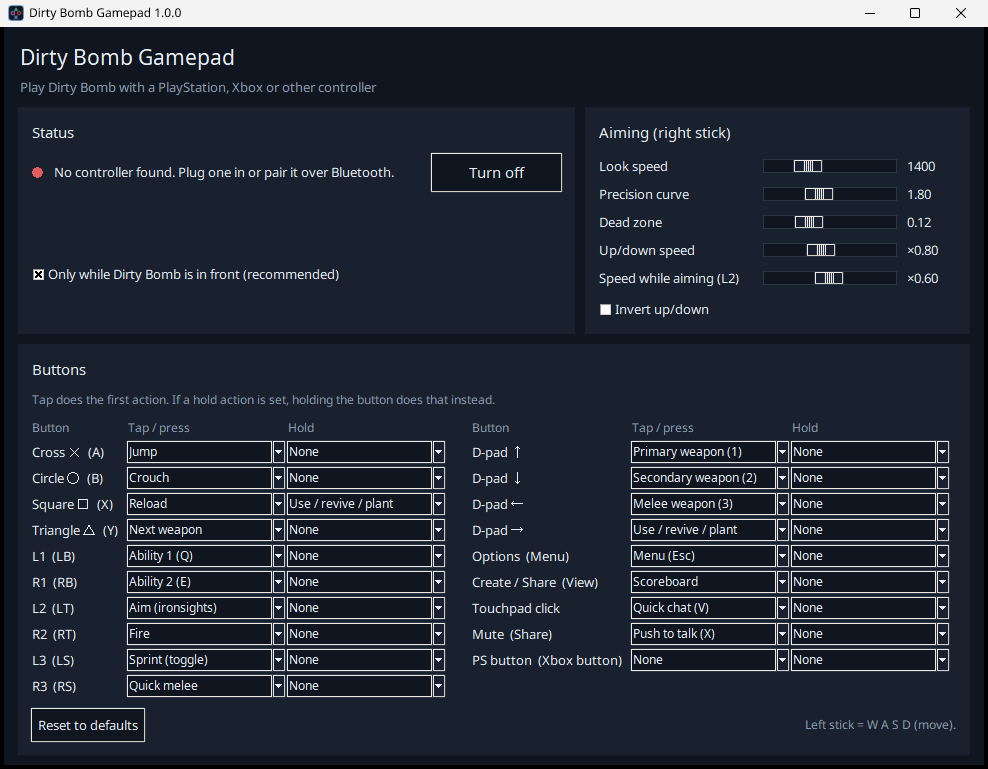
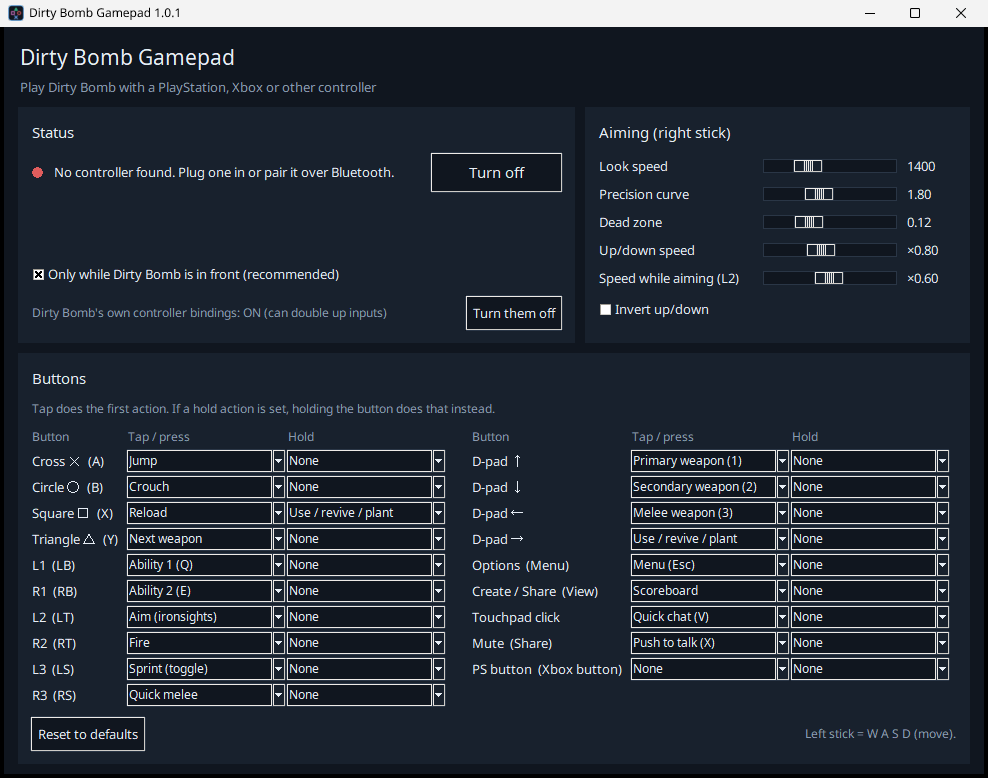
1.0.1: switch to turn off Dirty Bomb's own controller bindings
When the game can see the pad itself (Xbox pad, or PlayStation through Steam Input / DS4Windows),
its leftover UE3 XboxTypeS_ bindings fired alongside the app: holding R2 made the game aim.
The Status box now shows whether they're on and turns them off / back on (comments out exactly the
XboxTypeS_ Bindings lines in ShooterInput.ini, with a backup; refuses while the game is running,
since it rewrites the file on exit). Tests: gameconfig (4), 15 in all.

diff --git a/dbpad/gameconfig.py b/dbpad/gameconfig.py
@@ -1,0 +1,109 @@
+"""Switches Dirty Bomb's own (leftover Unreal Engine 3 Xbox) controller bindings off and on.
+
+If the game can see the controller itself (an Xbox pad, or a PlayStation pad through Steam Input or
+DS4Windows), those bindings fire as well as this app: holding R2, for example, makes the game aim. Turning
+them off comments out every `Bindings=(Name="XboxTypeS_...")` line in the player's ShooterInput.ini
+(a `;` at the start, which the game ignores), after saving a backup next to it. Turning them back on
+removes exactly those markers. Keyboard and mouse bindings are never touched.
+
+Dirty Bomb writes this file when it exits, so the game must be closed while switching.
+"""
+import ctypes
+import os
+import shutil
+import uuid
+from ctypes import wintypes
+
+MARK = ";dbpad-off "
+BACKUP_SUFFIX = ".dbpad-backup"
+
+
+def documents_dir():
+    """The user's Documents folder (follows OneDrive or a moved Documents folder)."""
+    try:
+        class GUID(ctypes.Structure):
+            _fields_ = [("d1", wintypes.DWORD), ("d2", wintypes.WORD), ("d3", wintypes.WORD), ("d4", ctypes.c_ubyte * 8)]
+        u = uuid.UUID("{FDD39AD0-238F-46AF-ADB4-6C85480369C7}")   # FOLDERID_Documents
+        g = GUID(u.fields[0], u.fields[1], u.fields[2], (ctypes.c_ubyte * 8)(*u.bytes[8:]))
+        p = ctypes.c_wchar_p()
+        if ctypes.windll.shell32.SHGetKnownFolderPath(ctypes.byref(g), 0, None, ctypes.byref(p)) == 0:
+            path = p.value
+            ctypes.windll.ole32.CoTaskMemFree(p)
+            return path
+    except Exception:
+        pass
+    return os.path.join(os.path.expanduser("~"), "Documents")
+
+
+def input_ini():
+    return os.path.join(documents_dir(), "My Games", "UnrealEngine3", "ShooterGame", "Config", "ShooterInput.ini")
+
+
+def _is_pad_binding(line):
+    return line.lstrip().startswith('Bindings=(Name="XboxTypeS_')
+
+
+def status(path):
+    """'on' (the game's controller bindings work), 'off' (switched off by this app), or 'missing'."""
+    if not os.path.isfile(path):
+        return "missing"
+    with open(path, "r", encoding="utf-8-sig", errors="surrogateescape") as f:
+        lines = f.read().splitlines()
+    return "on" if any(_is_pad_binding(l) for l in lines) else "off"
+
+
+def _rewrite(path, fn):
+    with open(path, "r", encoding="utf-8-sig", errors="surrogateescape", newline="") as f:
+        text = f.read()
+    nl = "\r\n" if "\r\n" in text else "\n"
+    lines = text.split(nl)
+    changed = 0
+    out = []
+    for l in lines:
+        new = fn(l)
+        changed += new != l
+        out.append(new)
+    if changed:
+        with open(path, "w", encoding="utf-8", errors="surrogateescape", newline="") as f:
+            f.write(nl.join(out))
+    return changed
+
+
+def disable(path):
+    """Comments out the game's controller bindings. Returns how many lines changed. Backs the file up first."""
+    backup = path + BACKUP_SUFFIX
+    if not os.path.exists(backup):
+        shutil.copy2(path, backup)
+    return _rewrite(path, lambda l: MARK + l if _is_pad_binding(l) else l)
+
+
+def enable(path):
+    """Puts back exactly the lines this app commented out. Returns how many lines changed."""
+    return _rewrite(path, lambda l: l[len(MARK):] if l.startswith(MARK) else l)
+
+
+def game_running():
+    """Is Dirty Bomb running? (It rewrites ShooterInput.ini when it exits, so switch only while it's closed.)"""
+    TH32CS_SNAPPROCESS = 0x2
+
+    class PROCESSENTRY32W(ctypes.Structure):
+        _fields_ = [("dwSize", wintypes.DWORD), ("cntUsage", wintypes.DWORD), ("th32ProcessID", wintypes.DWORD),
+                    ("th32DefaultHeapID", ctypes.c_size_t), ("th32ModuleID", wintypes.DWORD), ("cntThreads", wintypes.DWORD),
+                    ("th32ParentProcessID", wintypes.DWORD), ("pcPriClassBase", ctypes.c_long), ("dwFlags", wintypes.DWORD),
+                    ("szExeFile", ctypes.c_wchar * 260)]
+    k32 = ctypes.windll.kernel32
+    k32.CreateToolhelp32Snapshot.restype = wintypes.HANDLE
+    snap = k32.CreateToolhelp32Snapshot(TH32CS_SNAPPROCESS, 0)
+    if not snap or snap == wintypes.HANDLE(-1).value:
+        return False
+    try:
+        e = PROCESSENTRY32W()
+        e.dwSize = ctypes.sizeof(e)
+        ok = k32.Process32FirstW(snap, ctypes.byref(e))
+        while ok:
+            if e.szExeFile.lower().startswith("shootergame"):
+                return True
+            ok = k32.Process32NextW(snap, ctypes.byref(e))
+        return False
+    finally:
+        k32.CloseHandle(snap)

diff --git a/dbpad/app.py b/dbpad/app.py
@@ -10,14 +10,14 @@ import sys
 import threading
 import time
 import tkinter as tk
-from tkinter import ttk
+from tkinter import messagebox, ttk
 
 from .actions import ACTIONS, BUTTONS, DEFAULT_SETTINGS
 from .mapper import Mapper
-from . import sendinput
+from . import gameconfig, sendinput
 
 APP_NAME = "Dirty Bomb Gamepad"
-VERSION = "1.0.0"
+VERSION = "1.0.1"
 TICK = 1 / 250
 
 BG, PANEL, FG, MUTED, ACCENT, ON, OFF = "#10161f", "#18212d", "#e6edf5", "#8a9bb0", "#3aa0ff", "#46d17c", "#e05d5d"
@@ -163,6 +163,14 @@ class App:
         self.focus_var = tk.BooleanVar(value=self.settings["only_when_game_focused"])
         ttk.Checkbutton(p, text="Only while Dirty Bomb is in front (recommended)", variable=self.focus_var,
                         command=lambda: self._set("only_when_game_focused", self.focus_var.get())).pack(anchor="w", pady=(8, 0))
+        # the game's own (Xbox) controller bindings: off stops double input, e.g. holding R2 making the game aim
+        nat = ttk.Frame(p, style="Panel.TFrame")
+        nat.pack(fill="x", pady=(8, 0))
+        self.native_lbl = ttk.Label(nat, text="", style="Muted.TLabel")
+        self.native_lbl.pack(side="left")
+        self.native_btn = ttk.Button(nat, command=self.toggle_native)
+        self.native_btn.pack(side="right")
+        self._show_native()
 
         # aiming
         p = self._panel(top, "Aiming (right stick)", side="right")
@@ -228,6 +236,39 @@ class App:
 
     def toggle(self):
         self._set("enabled", not self.settings["enabled"])
+
+    def _show_native(self):
+        st = gameconfig.status(gameconfig.input_ini())
+        if st == "missing":
+            self.native_lbl.config(text="Dirty Bomb's settings file wasn't found (run the game once).")
+            self.native_btn.config(text="Check again")
+        elif st == "on":
+            self.native_lbl.config(text="Dirty Bomb's own controller bindings: ON (can double up inputs)")
+            self.native_btn.config(text="Turn them off")
+        else:
+            self.native_lbl.config(text="Dirty Bomb's own controller bindings: OFF (only this app drives the game)")
+            self.native_btn.config(text="Turn them back on")
+
+    def toggle_native(self):
+        path = gameconfig.input_ini()
+        st = gameconfig.status(path)
+        if st == "missing":
+            return self._show_native()
+        if gameconfig.game_running():
+            messagebox.showwarning(APP_NAME, "Close Dirty Bomb first.\n\nThe game saves its settings file when it exits, which would undo this.")
+            return
+        try:
+            if st == "on":
+                n = gameconfig.disable(path)
+                messagebox.showinfo(APP_NAME, f"Turned off {n} of Dirty Bomb's own controller bindings.\n\n"
+                                              f"A backup was saved as\n{path + gameconfig.BACKUP_SUFFIX}\n\n"
+                                              "Now only this app drives the game, so holding R2 just fires.")
+            else:
+                n = gameconfig.enable(path)
+                messagebox.showinfo(APP_NAME, f"Turned {n} of Dirty Bomb's own controller bindings back on.")
+        except OSError as e:
+            messagebox.showerror(APP_NAME, f"Couldn't change the settings file:\n{e}")
+        self._show_native()
 
     def reset(self):
         defaults = copy.deepcopy(DEFAULT_SETTINGS)

diff --git a/tests/test_gameconfig.py b/tests/test_gameconfig.py
@@ -1,0 +1,58 @@
+import os
+import tempfile
+import unittest
+
+from dbpad import gameconfig
+
+SAMPLE = "\r\n".join([
+    "[Engine.PlayerInput]",
+    'Bindings=(Name="LeftMouseButton",Command="Fire")',
+    'Bindings=(Name="XboxTypeS_RightTrigger",Command="Fire")',
+    "[ShooterGame.SGPlayerInputPawn]",
+    'Bindings=(Name="XboxTypeS_LeftTrigger",Command="ToggleTargetingMode",Control=False)',
+    'Bindings=(Name="R",Command="ReloadCmd")',
+    "[GFxUI.KeyMap]",
+    "XboxTypeS_LeftTrigger=GAMEPAD_L2",
+    "",
+])
+
+
+class GameConfigTest(unittest.TestCase):
+    def setUp(self):
+        self.dir = tempfile.mkdtemp()
+        self.path = os.path.join(self.dir, "ShooterInput.ini")
+        with open(self.path, "w", encoding="utf-8", newline="") as f:
+            f.write(SAMPLE)
+
+    def read(self):
+        with open(self.path, encoding="utf-8", newline="") as f:
+            return f.read()
+
+    def test_off_comments_only_the_controller_bindings_and_keeps_a_backup(self):
+        self.assertEqual(gameconfig.status(self.path), "on")
+        self.assertEqual(gameconfig.disable(self.path), 2)
+        text = self.read()
+        self.assertIn(';dbpad-off Bindings=(Name="XboxTypeS_RightTrigger"', text)
+        self.assertIn(';dbpad-off Bindings=(Name="XboxTypeS_LeftTrigger"', text)
+        self.assertIn('\r\nBindings=(Name="LeftMouseButton",Command="Fire")\r\n', text)
+        self.assertIn("\r\nXboxTypeS_LeftTrigger=GAMEPAD_L2\r\n", text)     # button-prompt names left alone
+        self.assertEqual(gameconfig.status(self.path), "off")
+        with open(self.path + gameconfig.BACKUP_SUFFIX, encoding="utf-8", newline="") as f:
+            self.assertEqual(f.read(), SAMPLE)
+
+    def test_on_puts_the_file_back_exactly(self):
+        gameconfig.disable(self.path)
+        self.assertEqual(gameconfig.enable(self.path), 2)
+        self.assertEqual(self.read(), SAMPLE)
+        self.assertEqual(gameconfig.status(self.path), "on")
+
+    def test_switching_twice_changes_nothing_more(self):
+        gameconfig.disable(self.path)
+        self.assertEqual(gameconfig.disable(self.path), 0)
+
+    def test_a_missing_file(self):
+        self.assertEqual(gameconfig.status(os.path.join(self.dir, "nope.ini")), "missing")
+
+
+if __name__ == "__main__":
+    unittest.main()
